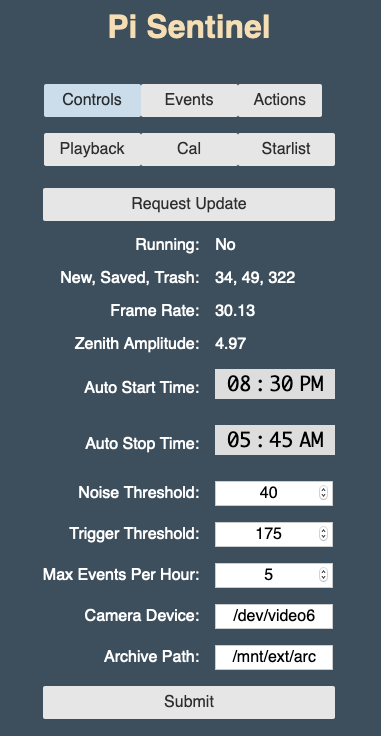
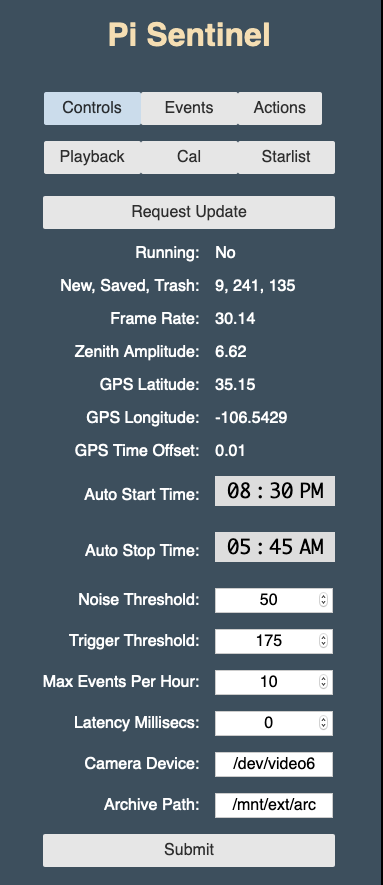
Update README

diff --git a/README.md b/README.md
@@ -9,7 +9,7 @@ The Pi Sentinel software requires the following external programs and libraries:
 ```
 sudo apt-get install git
 sudo apt-get install gpac
-sudo apt-get install libatlas-base
+sudo apt-get install libatlas-base-dev
 sudo apt-get install python3-pip
 sudo pip3 install cherrypy
 sudo pip3 install pyephem
@@ -19,7 +19,7 @@ The `git` install allows us to access the github repository.
 
 The `gpac` install provides the utility program (MP4Box) used to convert .h264 formatted files to .mp4.
 
-The `libatlas-base` install provides numerical libraries used to for star ephemeris calculations. 
+The `libatlas-base-dev` install provides numerical libraries used to for star ephemeris calculations. 
 
 The `python3-pip` install gives us pip3, which is needed for the next install.
 
@@ -38,12 +38,26 @@ HD 2mp for Automatic Vending Machines
 Black (25 Feet, 7.62 Meters)
 * WAVLINK USB 3.0 to SATA External Hard Drive Docking Station with 2USB 3.0 HUB and TF & SD Card for 2.5 inch/3.5 Inch HDD
 * Power Supply - CanaKit USB-C Power Supply
+* GPS Module - BN-280 GPS Module NMEA-0183 TTL Level Dual Glonass GPS with 1PPS Flash for Arduino Pixhawk Aircraft Flight Control FPV Freestyle Drone Quadcopter RC Airplanes APM 2.8
 
 The camera has a fisheye lens but the full sky image is somewhat cropped at the top and bottom. 
 
 I wanted to have the camera far away from the Raspberry Pi, but since USB cables are not designed to work over long distances, I am using an Active Extension Cable that has built in circuitry to boost the signal.
 
 I am using a Hard Drive Docking station that lets me attach a 1TB SATA hard drive for archival storage, and also provides a powered USB hub that connects to and provides power to the camera.  I suspect that the Raspberry Pi may not have sufficient power to drive the camera and extension cable directly, so if you do not elect to provide a video archive, I would recommend that you still use a powered USB hub to drive the camera and extension cable.
+
+The GPS module provides serial timing information and a 1 pulse-per-second sync pulse.  These are used to improve the timing accuracy of the measurements.  The GPS module cable wires are connected to the Raspberry Pi GPIO connector as follows:
+
+* GPS Pin 1: 1PPS --- RPi GPIO 4 (GPCLK0) Pin 7
+* GPS Pin 2: Gnd  --- RPi Ground Pin 6
+* GPS Pin 3: Tx   --- Rpi GPIO 15 (UART RX) Pin 10
+* GPS Pin 4: Rx   --- 
+* GPS Pin 5: VCC  --- Rpi 3v3 Power Pin 1
+* GPS Pin 6: Boot ---
+
+The GPS module also provides a red flashing light coincident with the 1PPS signal that serves as a visual indication that the module is working correctly.  
+
+Note: The GPS Module should be kept several feet away from the hard drive and any other electrical equipment that could interfere with the GPS signals.
 
 ## Quick Start
 
@@ -85,11 +99,15 @@ Next is the **Request Update** button.  Pressing this sends a request to the Pi 
 * **New, Saved, Trash** - This provides three numbers that indicate how many events are in the *new* directory, the *saved* directory, and the *trash* directory, respectively.  All new events are automatically placed in the *new* directory and it is up to the user to move them to one of the other directories.
 * **Frame Rate** - If Pi Sentinel is processing camera data, this indicates the frame rate (in frames per second) being generated by the camera.  The frame rate can change if the light level changes or if Pi Sentinel controls the rate itself.
 * **Zenith Amplitude** - If the Pi Sentinel is processing camera data, this is an estimate of the light brightness at the zenith.  It is produced by sampling a set of pixels near the center of the image.  This estimate is sometimes used by Pi Sentinel to control exposure time.
+* **GPS Latitude** - This is the latitude provided by the GPS module, if present.
+* **GPS Longitude** - This is the longitude provided by the GPS module, if present.
+* **GPS Time Offset** - This is the difference between the time provided by the GPS module and the system time provided by the Raspberry Pi's internal clock.
 * **Auto Start Time** - This is the local time at which Pi Sentinel will start processing camera data.  Typically, this is when you might expect to start seeing meteors.
 * **Auto Stop Time** - This is the local time at which Pi Sentinel will stop processing camera data.  If both the Start Time and Stop Time are set to the same time, then neither action will occur and you will need to start or stop processing manually.
 * **Noise Threshold** - Pixels values that are less than this number above background are ignored.
 * **Trigger Threshold** - If the sum of pixel values that are more than the noise threshold above background exceeds this number, then a trigger is initiated and an event is produced.
 * **Max Events Per Hour** - The nominal maximum number of events that can be produced per hour.  The way this works can be explained with an example.  Suppose that the Max Events Per Hour is set to 5.  When processing begins, Pi Sentinel has a starting credit of 5 events.  Every time an event occurs, the credit is reduced by 1.  If the credit reaches 0, no more events are allowed.  However, one credit is added every 12 minutes (1/5 hour) up to a maximum of 5 credits.
+* **Latency Millisecs** - This specifies the latency (in milliseconds) that is expected due to possible buffering in the camera.  In practice, I have not found a reason to change this from zero.
 * **Camera Device** - This specifies which video device is being used by the Raspberry Pi to connect to the camera.  This will typically be `/dev/videoN` where N is some number.  Cameras often connect to several devices if they provide several different data formats.  For Pi Sentinel you need to connect to the device that provides H264 formatted data.
 * **Archive Path** - This specifies the path to the directory that will contain the archive, which is all the video that the camera produces while Pi Sentinel is processing data.  If you do not wish to archive all the video, the path should be specified as: `none`.
 
@@ -97,7 +115,7 @@ Next is the **Submit** button.  If you change one of the parameters above, you m
 
 If you press the **Actions** button, you will see drop-down commands, some of which are shown below:
 
-![Control Panel 1](doc/PiSentinelControls2.png)
+![Control Panel 2](doc/PiSentinelControls2.png)
 
 If Pi Sentinel is not processing, then pressing the **Toggle Start/Stop** selection will start processing.  Alternatively, if Pi Sentinel is processing, then pressing this command will stop processing.
 
@@ -141,7 +159,7 @@ Similarly, if you select the **Saved** button, you will see a table containing a
 
 Press the **Playback** button to select the **Playback Pane** as shown below.
 
-![Events Panel](doc/PiSentinelPlayback.png)
+![Playback Panel](doc/PiSentinelPlayback.png)
 
 If you decide to maintain a video archive, the Playback capability lets you go into the archive and generate event files at any time and with any duration, as if a genuine event occurred at that time.  This can be useful if you know from other sources that a meteor event occurred at a specific time but Pi Sentinel did not trigger for whatever reason.  Or, perhaps Pi Sentinel did produce an event, but the event video started too late or cut off too soon. In this case, the Playback capability will let you produce a new event with expanded time coverage.
 
@@ -151,7 +169,7 @@ The **Playback** pane lets you specify a start time and a duration in seconds.  
 
 Press the **Cal** button to select the **Cal Pane** as shown below.
 
-![Events Panel](doc/PiSentinelCal.png)
+![Calibrate Panel](doc/PiSentinelCal.png)
 
 The **Cal** pane presents all the parameters needed to calibrate the view, that is, to map each point in the image view to a true Azimuth and Elevation, taking into account the positioning of the camera and the distortion of the lens.  To assist in this effort, the calculated positions of the four cardinal directions (N,S,E,W) and the position of the zenith (Z) are indicated in the view area by solid red dots.  Also, the calculated positions of the brightest stars at the time of the last selected event, are indicated in the view by red circles.  The parameters can be edited by hand and then the star positions can be updated by pressing the `Update Stars` button.
 
@@ -167,7 +185,7 @@ Edited calibration parameters can be saved by pressing the `Save Calibration` bu
 
 Press the **Starlist** button to select the **Starlist Pane** as shown below.
 
-![Events Panel](doc/PiSentinelStarlist.png)
+![Starlist Panel](doc/PiSentinelStarlist.png)
 
 The **Starlist** pane presents a list of selected star measurements used to perform a calibration. The view shows the image of the most recently selected event, along with markers showing the calculated position of the brightest stars and planets visible at the time of the event.  The event should be one created with the **Make Star Map** command as described earlier.  The calibration parameters may need to be adjusted by hand such that the apparent star position is reasonably close to the calculated star position.  To add a measurement to the list, click on the apparent star position.  The program calculates the centroid of the apparent star position and finds the nearest star.  It then presents a dialog allowing you to approve the star selection whereupon it adds the measurement to the list.  You can add measurements from several events by going back to the **Events** pane, selecting a different event video, and then returning to the **Starlist** pane.  
 
